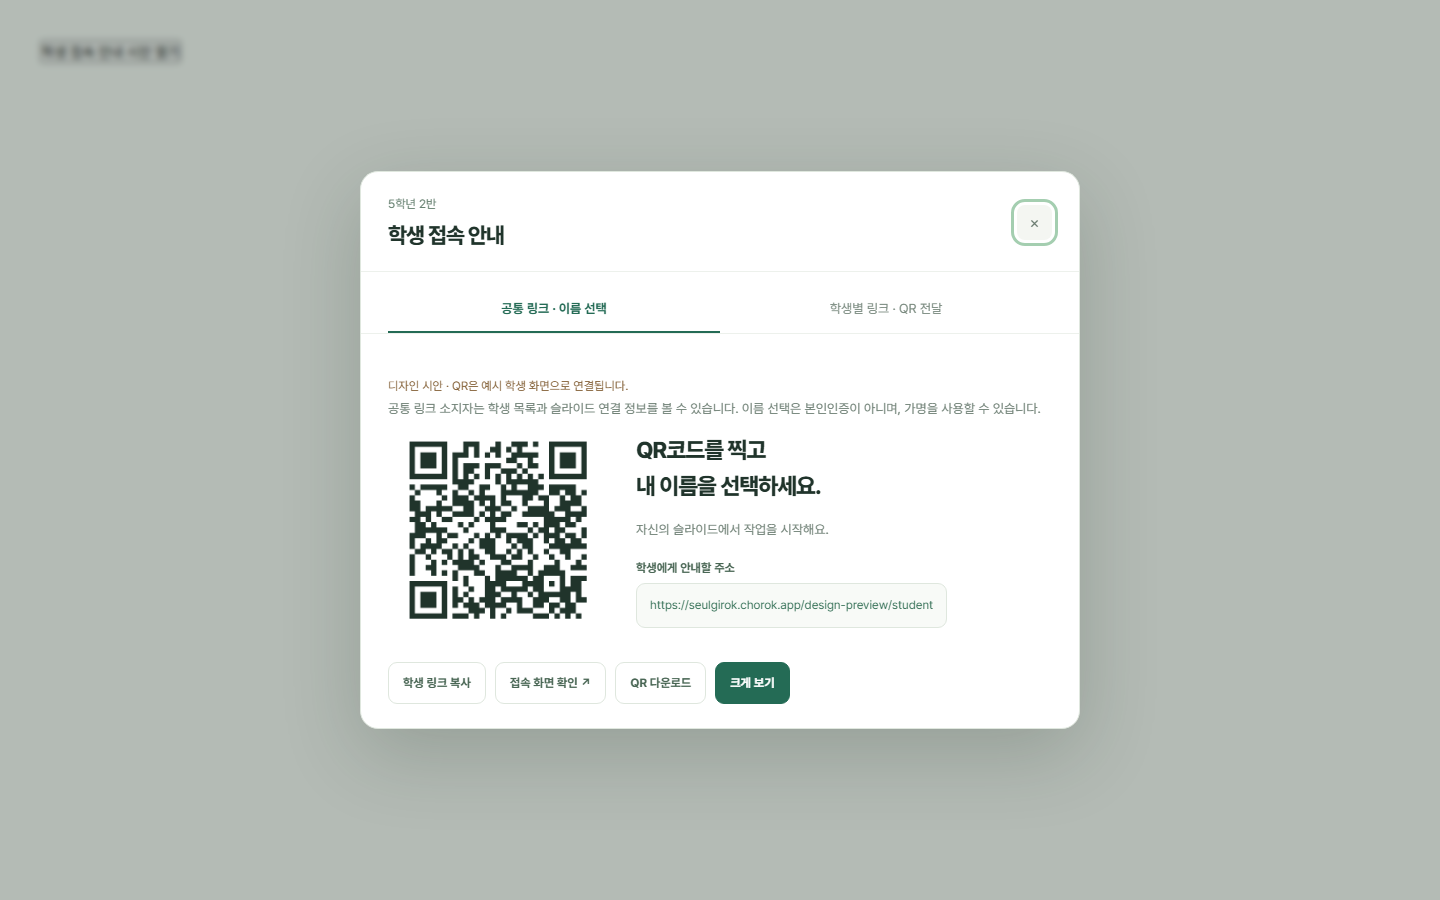
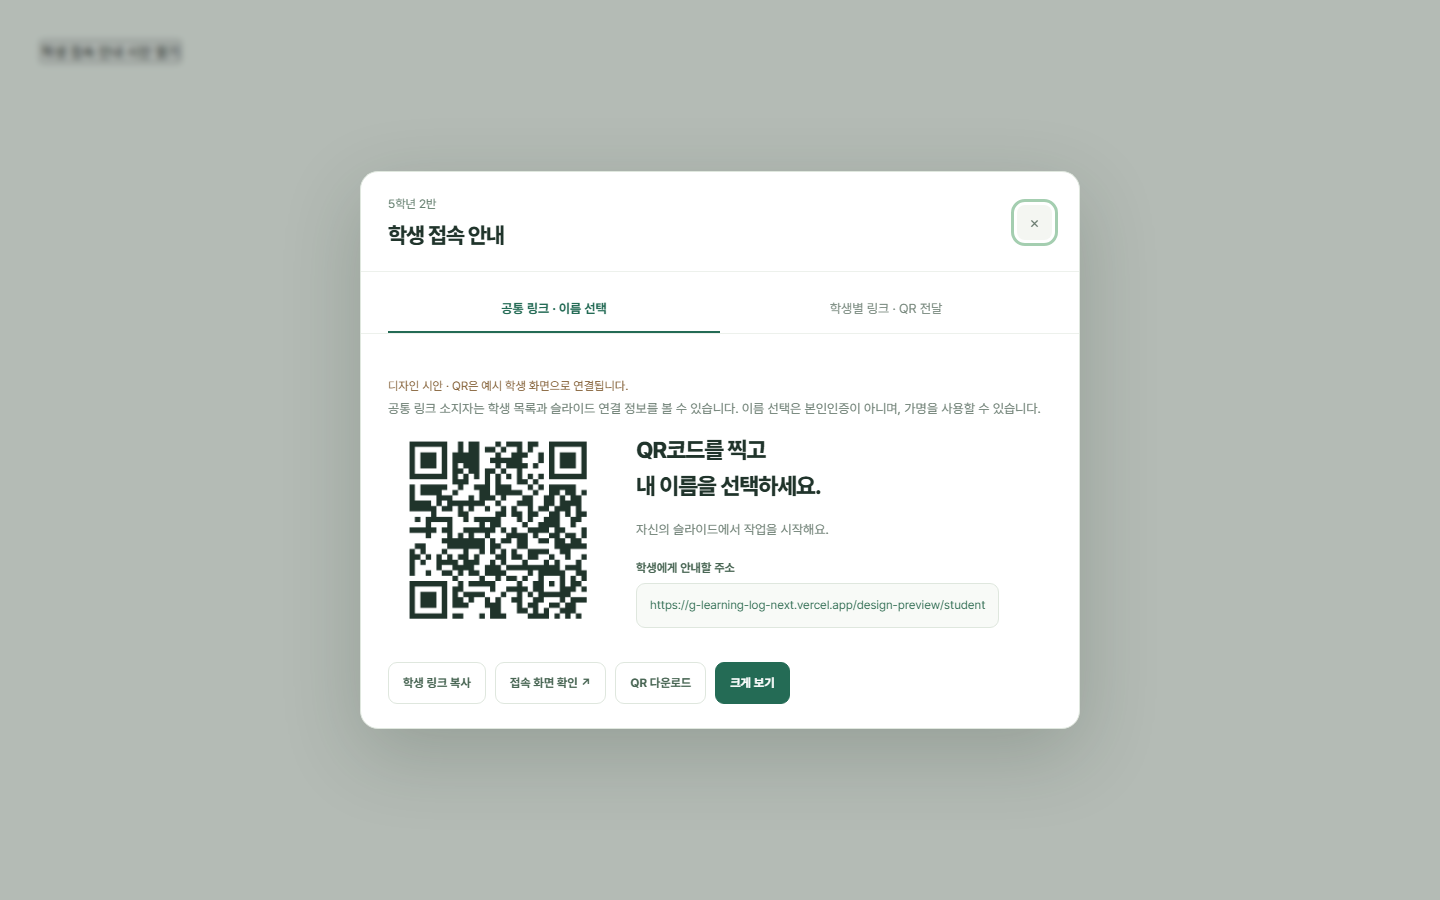
Prefer Vercel student links and soften guide card

Changed region(s): [[0.2812, 0.4667, 0.4062, 0.6844], [0.4688, 0.6533, 0.6875, 0.6844]]

diff --git a/src/components/GuideCarousel.js b/src/components/GuideCarousel.js
@@ -11,7 +11,7 @@ const cards = [
   { label: '01 · 연결', title: '선생님의 Google 계정으로 연결해요.', body: '학급 명단과 수업 기록은 선생님의 Google Drive에 저장됩니다. 출석번호가 있는 명단을 준비해 주세요. 예시 슬라이드는 없어도 됩니다.', points: ['Google 계정으로 계속하기를 누르세요.', '학생 접속 화면에는 별도 로그인이 없어요. Google 슬라이드는 학교 계정으로 열어요.'], shots: [{ src: 'home', caption: '메인 화면 · Google 계정으로 계속하기', alt: '메인 화면의 Google 계정으로 계속하기 버튼', x: 78, y: 52 }] },
   { label: '02 · 학급', title: '우리 반과 학생 명단을 등록해요.', body: '첫 학급 등록하기에서 학급 이름을 적고, 학생을 한 줄에 한 명씩 입력합니다. 번호와 이름 또는 가명을 함께 넣어 주세요.', points: ['학급 목록에서 첫 학급 등록하기를 누르세요.', '예: 1 김누리, 4 송명신'], shots: [{ src: 'first-class', caption: '① 학급 목록에서 시작', alt: '첫 학급 등록하기 버튼이 있는 학급 목록', x: 50, y: 64 }, { src: 'create-class', caption: '② 학급 이름과 명단 입력', alt: '학급 이름과 학생 명단을 입력하는 창', x: 51, y: 54 }] },
   { label: '03 · 과제', title: '예시 또는 빈 슬라이드로 배부해요.', body: '새 과제 만들기에서 제목을 입력하고 예시 슬라이드 사용 또는 빈 슬라이드로 시작을 고릅니다. 키워드는 선택 사항이며 나중에도 바꿀 수 있습니다.', points: ['새 과제 만들기를 누르세요.', '배부할 학생과 접속 방식을 확인한 뒤 생성하세요.'], shots: [{ src: 'classroom', caption: '① 학급 화면에서 새 과제 만들기', alt: '학급 과제 목록 오른쪽의 새 과제 만들기 버튼', x: 88, y: 36 }, { src: 'create-assignment', caption: '② 빈 슬라이드로 시작 선택', alt: '예시 슬라이드 사용과 빈 슬라이드로 시작 중 선택하는 창', x: 52, y: 37 }] },
-  { label: '04 · 학생 접속', title: '학생에게 링크나 QR을 보내요.', body: '과제의 학생 접속 안내에서 기본 링크를 복사하거나 QR을 보여 주세요. 공통 링크를 받은 학생은 자기 이름을 선택해 슬라이드를 엽니다.', points: ['링크 복사 또는 QR 다운로드를 사용하세요.', '필요하면 학생별 링크·QR 방식도 선택할 수 있어요.'], shots: [{ src: 'student-share', caption: '① 교사 화면에서 링크·QR 안내', alt: '학생 접속 안내 창의 QR과 링크 복사 버튼', x: 36, y: 57 }, { src: 'student-view', caption: '② 학생 화면에서 이름 선택', alt: '학생이 자신의 이름을 선택하는 접속 화면', x: 50, y: 49 }] },
+  { label: '04 · 학생 접속', title: '학생에게 링크나 QR을 보내요.', body: '학생 접속 안내의 Vercel 기본 주소를 복사하거나 QR을 보여 주세요. 접속이 안 되면 아래의 초록 대체 주소를 보낼 수 있습니다.', points: ['공통 링크를 받은 학생은 자기 이름을 선택해 슬라이드를 열어요.', '필요하면 학생별 링크·QR 방식도 선택할 수 있어요.'], shots: [{ src: 'student-share', caption: '① 교사 화면에서 링크·QR 안내', alt: 'Vercel 학생 접속 주소와 QR이 있는 안내 창', x: 55, y: 67 }, { src: 'student-view', caption: '② 학생 화면에서 이름 선택', alt: '학생이 자신의 이름을 선택하는 접속 화면', x: 50, y: 49 }] },
   { label: '05 · 수업 시작', title: '수업을 시작할 때 모니터링을 켜요.', body: '현재 기준으로 모니터링 시작을 누르면 그때의 슬라이드 상태를 첫 기준으로 저장합니다. 이후 확인된 변화부터 작업 기록과 그래프에 표시됩니다.', points: ['전날 만들어 둔 과제도 수업 시작 시 눌러 주세요.', '시작 전의 글자 수를 새 작업량으로 계산하지 않아요.'], visual: 'monitor' },
   { label: '06 · 먼저 보기', title: '먼저 살펴볼 학생을 찾아요.', body: '답변을 기다리는 댓글, 텍스트 급증, 변화가 없는 학생을 한 화면에서 확인합니다. 텍스트 급증은 확인할 신호이며 복사·붙여넣기의 확정 판정은 아닙니다.', points: ['왼쪽의 먼저 살펴볼 학생을 확인하세요.', '학생 카드를 누르면 자세한 기록을 볼 수 있어요.'], shots: [{ src: 'dashboard', caption: '작업 현황 · 먼저 살펴볼 학생', alt: '먼저 살펴볼 학생과 학생별 작업 카드가 있는 대시보드', x: 14, y: 57 }] },
   { label: '07 · 작업 기록', title: '변화의 흐름을 읽어 보세요.', body: '학생 카드를 열면 확인 시각별 작업 기록과 글자·이미지·슬라이드 변화를 볼 수 있습니다. 그래프는 슬.기록이 확인한 시점 사이의 변화입니다.', points: ['학생 카드를 눌러 오른쪽 작업 기록을 여세요.', '그래프와 확인 시각을 함께 살펴보세요.'], visual: 'record' },

diff --git a/src/components/StudentAccess.js b/src/components/StudentAccess.js
@@ -3,7 +3,7 @@
 import { useEffect, useId, useRef, useState, useSyncExternalStore } from 'react';
 import QRCode from 'qrcode';
 import Image from 'next/image';
-import { studentEntryUrl } from '@/lib/studentEntry.mjs';
+import { studentShareLinks } from '@/lib/studentEntry.mjs';
 import { studentLabel } from '@/lib/workRecords.mjs';
 import { studentKey } from '@/lib/storedWorkRecords.mjs';
 import styles from './StudentAccess.module.css';
@@ -11,9 +11,6 @@ import styles from './StudentAccess.module.css';
 const subscribeOrigin = () => () => {};
 const currentOrigin = () => window.location.origin;
 const serverOrigin = () => '';
-const SEULGIROK_ORIGIN = 'https://seulgirok.chorok.app';
-const LEGACY_ORIGIN = 'https://baeumlog.chorok.app';
-const VERCEL_ORIGIN = 'https://g-learning-log-next.vercel.app';
 
 export default function StudentAccess({ className, assignment, students, entry, onConfigure, onClose, preview = false }) {
   const dialog = useRef(null), inFlight = useRef(false), titleId = useId();
@@ -24,10 +21,7 @@ export default function StudentAccess({ className, assignment, students, entry, 
   const activeEntry = updated || entry, mode = choice || activeEntry?.mode || 'shared';
   const linkedStudents = students.filter((student) => student.slideUrl);
   const origin = useSyncExternalStore(subscribeOrigin, currentOrigin, serverOrigin);
-  const hasShareDomains = !preview && [SEULGIROK_ORIGIN, LEGACY_ORIGIN, VERCEL_ORIGIN].includes(origin);
-  const linkOrigin = hasShareDomains ? SEULGIROK_ORIGIN : origin;
-  const link = !origin ? '' : preview ? `${origin}/design-preview/student` : activeEntry?.id ? studentEntryUrl(linkOrigin, activeEntry.id) : '';
-  const fallbackLink = hasShareDomains && activeEntry?.id ? studentEntryUrl(VERCEL_ORIGIN, activeEntry.id) : '';
+  const { link, fallbackLink } = studentShareLinks(origin, activeEntry?.id, preview);
   const qrUrl = qr?.link === link ? qr.url : '';
   const individualQrUrl = individualQr?.link === selectedQr?.link ? individualQr?.url : '';
   const local = link && /^(localhost|127\.0\.0\.1|\[::1\])$/.test(new URL(link).hostname);

diff --git a/src/components/EntryScreen.module.css b/src/components/EntryScreen.module.css
@@ -232,10 +232,10 @@
   cursor: default;
 }
 
-.guideLink { display: flex; flex-direction: column; justify-content: center; gap: 5px; min-height: 76px; margin-top: 16px; padding: 14px 19px; border-radius: 12px; background: #246b55; color: #fff; text-decoration: none; }
-.guideLink span { color: #d4e8db; font-size: 12px; font-weight: 600; }
+.guideLink { display: flex; flex-direction: column; justify-content: center; gap: 5px; min-height: 72px; margin-top: 16px; padding: 14px 19px; border: 1px solid #c9decf; border-radius: 12px; background: #edf5ee; color: #246b55; text-decoration: none; }
+.guideLink span { color: #648371; font-size: 12px; font-weight: 600; }
 .guideLink strong { font-size: 15px; font-weight: 760; letter-spacing: -0.025em; }
-.guideLink:hover { background: #1d5946; }
+.guideLink:hover { border-color: #a9cfb5; background: #e5f1e8; }
 .guideLink:focus-visible { outline: 3px solid #a4ceb0; outline-offset: 3px; }
 
 .googleButton:focus-visible {
